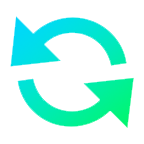
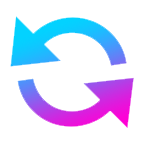
cambio de colores, agregadas animaciones y cambio de tamaño de fuente para distintos dispositivos

Changed region(s): [[0.1111, 0.5278, 0.9444, 0.8889], [0.3611, 0.1111, 0.8889, 0.4722], [0.0556, 0.3056, 0.4167, 0.4722]]

diff --git a/css/main.css b/css/main.css
@@ -3,7 +3,7 @@
     padding: 0;
     margin: 0;
     font-family: 'Ubuntu', sans-serif;
-    font-size: 18px;
+    font-size: 16px;
 }
 
 ul { 
@@ -33,7 +33,7 @@ header {
     height: 100vh;
     width: 100%;
     background-image: url("../images/server.jpg"); /* fallback */
-    background-image: linear-gradient(180.26deg, rgba(4, 209, 255, 0.8), rgba(0, 255, 56, .8) 137.47%), url("../images/server.jpg");
+    background-image: linear-gradient(180.26deg, rgba(4, 209, 255, 0.8), #FF00D6 137.47%), url("../images/server.jpg");
     background-size: cover;
     margin-bottom: 2rem;
     box-shadow: 0px 4px 25px rgba(0, 0, 0, 0.25);
@@ -156,9 +156,15 @@ input {
     margin-bottom: 1rem;
     padding: .5rem;
     box-shadow: 0px 2px 10px rgba(0, 0, 0, 0.2);
-    border: none;
+    border: 3px solid transparent;
     border-radius: 7px;
   }
+
+input:active, :focus, ::selection {
+    border: 3px solid #03D2FF;
+}
+
+
 
 textarea {
     appearance: none;
@@ -171,7 +177,7 @@ textarea {
     height: 10rem;
     margin-bottom: 2rem;
     resize: none;
-    border: 2px solid rgba(255, 255, 255, 0);
+    border: 3px solid rgba(255, 255, 255, 0);
     border-radius: 7px;
     box-shadow: 0px 2px 10px rgba(0, 0, 0, 0.2);
 }
@@ -180,7 +186,7 @@ textarea {
     color: white;
     font-weight: 500;
     border: 0px solid rgba(0, 0, 0, 0);
-    background: linear-gradient(99.03deg, #04D2FF 4.02%, #27FF7D 134.35%);
+    background: linear-gradient(99.03deg, #04D2FF 4.02%, #FF00D6 134.35%);
     box-shadow: 0px 4px 4px rgba(0, 0, 0, 0.15);
     max-width: 400px;
     min-width: 200px;
@@ -189,11 +195,12 @@ textarea {
 
 .boton:hover {
     transform: scale(1.05);
+    cursor: pointer;
 }
 
 /* Pie de pagina */
 footer {
-    background: linear-gradient(165.46deg, #03D2FF 6.43%, #00FF38 146.19%);
+    background: linear-gradient(165.46deg, #03D2FF 6.43%, #FF00D6 146.19%);
     display: flex;
     align-items: center;
     justify-content: flex-start;
@@ -217,7 +224,11 @@ nav a {
 
 nav li {
     margin-bottom: .6rem;
-    transition-duration: 600ms;
+    transition-duration: 300ms;
+}
+
+nav li:hover{
+    transform: translateX(10px);
 }
 
 /* Redes sociales */
@@ -230,7 +241,14 @@ footer > ul {
     padding: 0 2rem;
 }
 
+/* tablet */
+@media screen and (min-width: 600px) and (max-width: 1023px) {
+    *{
+        font-size: 18px;
+    }
+}
 
+/* Version escritorio */
 @media screen and (min-width: 1024px) {
     *{
         font-size: 24px;
